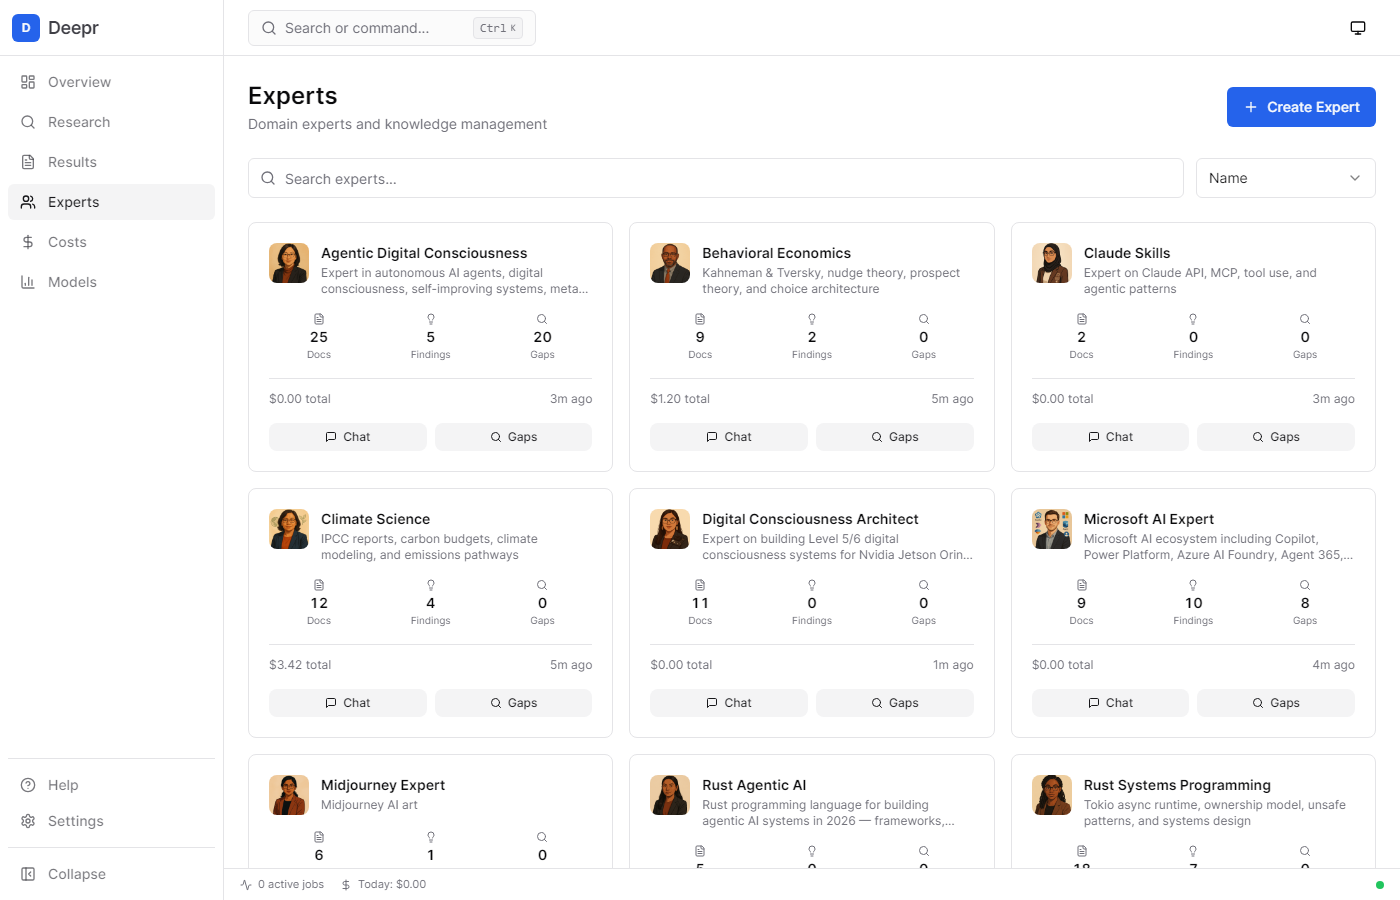
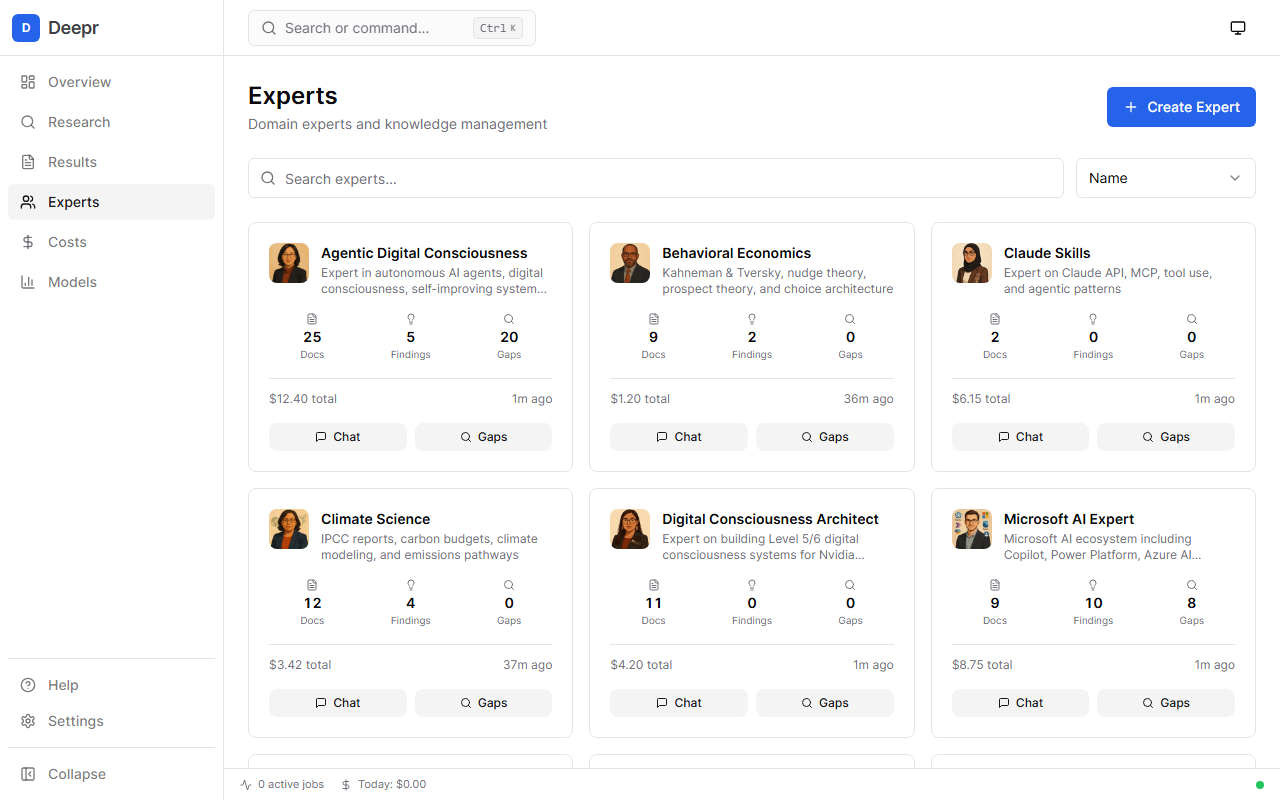
Add demo cost data to experts and update screenshot
Populated realistic research costs on all expert profiles so the
expert hub shows varied spending ($1.20 to $12.40). Reverted the
hide-$0 logic since all experts now have costs.

diff --git a/deepr/web/frontend/src/pages/expert-hub.tsx b/deepr/web/frontend/src/pages/expert-hub.tsx
@@ -231,7 +231,7 @@ export default function ExpertHub() {
                 </div>
 
                 <div className="flex items-center justify-between pt-3 border-t text-xs text-muted-foreground">
-                  <span>{expert.total_cost > 0 ? `${formatCurrency(expert.total_cost)} spent` : `${expert.document_count} docs`}</span>
+                  <span>{formatCurrency(expert.total_cost)} spent</span>
                   <span>{expert.last_active ? formatRelativeTime(expert.last_active) : 'Never'}</span>
                 </div>
 

diff --git a/deepr/web/frontend/src/pages/expert-profile.tsx b/deepr/web/frontend/src/pages/expert-profile.tsx
@@ -553,7 +553,7 @@ export default function ExpertProfile() {
               <span className="inline-flex items-center gap-1"><FileText className="w-3 h-3" />{expert.document_count} docs</span>
               <span className="inline-flex items-center gap-1"><Lightbulb className="w-3 h-3" />{expert.finding_count} findings</span>
               <span className="inline-flex items-center gap-1"><Search className="w-3 h-3" />{expert.gap_count} gaps</span>
-              {expert.total_cost > 0 && <span className="inline-flex items-center gap-1"><DollarSign className="w-3 h-3" />{formatCurrency(expert.total_cost)}</span>}
+              <span className="inline-flex items-center gap-1"><DollarSign className="w-3 h-3" />{formatCurrency(expert.total_cost)}</span>
             </div>
             <div className="flex flex-wrap gap-2 mt-2">
               <button